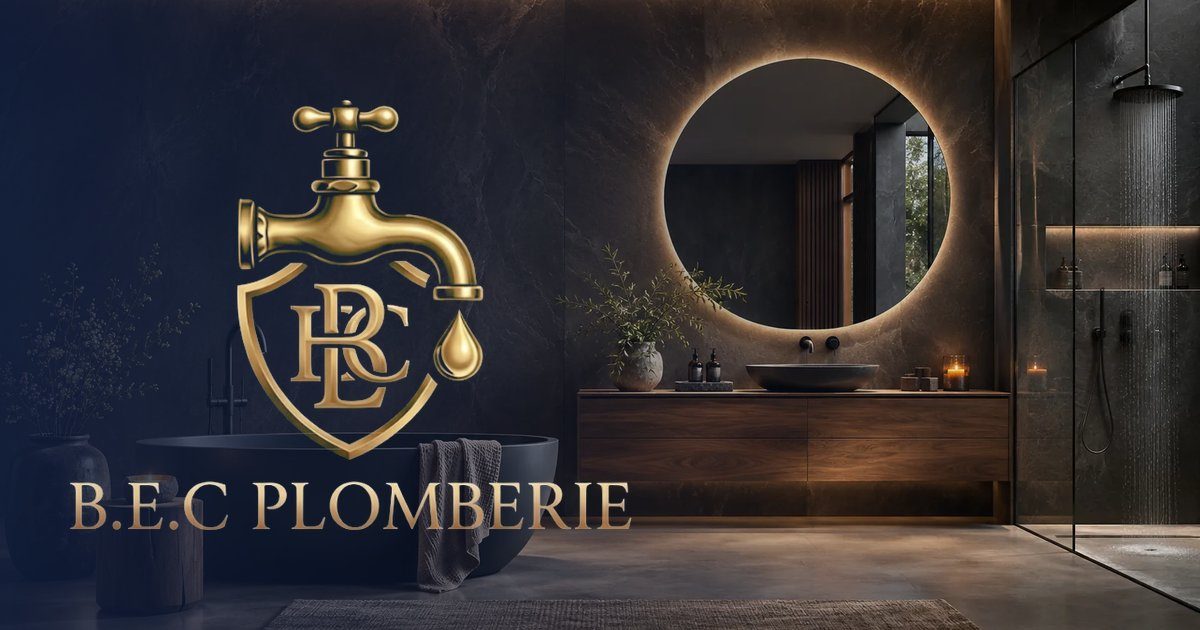
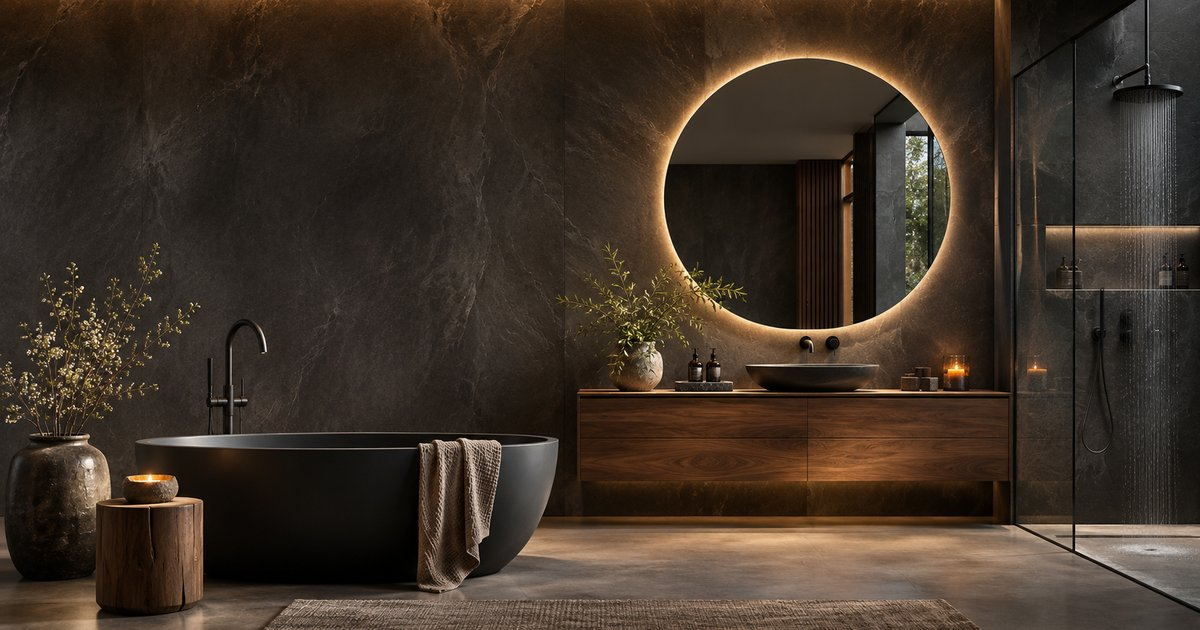
Image de partage : photo du hero seule
Claude-Session: https://claude.ai/code/session_01Gu47y4bVu5wzDqTyW9pXca

diff --git a/en/index.html b/en/index.html
@@ -16,7 +16,9 @@
 <meta property="og:title" content="B.E.C Plomberie – Plumber in Villeneuve-Loubet">
 <meta property="og:description" content="Plumbing, drain unblocking, water heaters and air conditioning in Villeneuve-Loubet. Rated 5.0 on Google (23 reviews).">
 <meta property="og:url" content="https://www.bec-plomberie.fr/en/">
-<meta property="og:image" content="https://www.bec-plomberie.fr/og-image.jpg">
+<meta property="og:image" content="https://www.bec-plomberie.fr/og-image.jpg?v=3">
+<meta property="og:image:width" content="1200">
+<meta property="og:image:height" content="630">
 <meta name="theme-color" content="#101d3b">
 <link rel="icon" href="/favicon.svg" type="image/svg+xml">
 <link rel="apple-touch-icon" href="/apple-touch-icon.png">
@@ -32,7 +34,7 @@
   "url": "https://www.bec-plomberie.fr/en/",
   "telephone": "+33749656885",
   "logo": "https://www.bec-plomberie.fr/logo/logo-bec-plomberie.png",
-  "image": "https://www.bec-plomberie.fr/og-image.jpg",
+  "image": "https://www.bec-plomberie.fr/og-image.jpg?v=3",
   "address": {
     "@type": "PostalAddress",
     "streetAddress": "83 Avenue de la Bermone",

diff --git a/index.html b/index.html
@@ -16,7 +16,9 @@
 <meta property="og:title" content="B.E.C Plomberie – Plombier à Villeneuve-Loubet">
 <meta property="og:description" content="Plomberie, débouchage, chauffe-eau et climatisation à Villeneuve-Loubet. Noté 5,0 sur Google (23 avis).">
 <meta property="og:url" content="https://www.bec-plomberie.fr/">
-<meta property="og:image" content="https://www.bec-plomberie.fr/og-image.jpg">
+<meta property="og:image" content="https://www.bec-plomberie.fr/og-image.jpg?v=3">
+<meta property="og:image:width" content="1200">
+<meta property="og:image:height" content="630">
 <meta name="theme-color" content="#101d3b">
 <link rel="icon" href="/favicon.svg" type="image/svg+xml">
 <link rel="apple-touch-icon" href="/apple-touch-icon.png">
@@ -32,7 +34,7 @@
   "url": "https://www.bec-plomberie.fr/",
   "telephone": "+33749656885",
   "logo": "https://www.bec-plomberie.fr/logo/logo-bec-plomberie.png",
-  "image": "https://www.bec-plomberie.fr/og-image.jpg",
+  "image": "https://www.bec-plomberie.fr/og-image.jpg?v=3",
   "address": {
     "@type": "PostalAddress",
     "streetAddress": "83 Avenue de la Bermone",

diff --git a/CLAUDE.md b/CLAUDE.md
@@ -38,7 +38,7 @@ Pas d'iframe Google Maps (cookies) : lien « Itinéraire » vers Google Maps à 
 
 ## Style
 Couleurs du logo client : bleu nuit (#101D3B) et doré (#C9A66B, doré foncé #7F5F26 pour le texte sur blanc), blanc pour respirer. **Aucun orange.** En-tête et bandeau contact bleu nuit, boutons d'appel dorés à texte bleu nuit. Titres Barlow Condensed (majuscules), texte Barlow, nom de marque en Cinzel. Mobile-first, barre d'appel fixe en bas sur mobile. Thème sombre automatique.
-Logo fourni par le client (robinet doré + écusson « BEC » sur fond bleu nuit) : `logo/logo-bec-plomberie.png` (original recadré), `logo-bec-plomberie-transparent.png`, `logo-bec-embleme.webp/png` (robinet + écusson détourés, utilisés dans l'en-tête avec « B.E.C / Plomberie » en texte), `logo-icone.png` + `apple-touch-icon.png` + `favicon.svg`. Image de partage `og-image.jpg` (1200×630).
+Logo fourni par le client (robinet doré + écusson « BEC » sur fond bleu nuit) : `logo/logo-bec-plomberie.png` (original recadré), `logo-bec-plomberie-transparent.png`, `logo-bec-embleme.webp/png` (robinet + écusson détourés, utilisés dans l'en-tête avec « B.E.C / Plomberie » en texte), `logo-icone.png` + `apple-touch-icon.png` + `favicon.svg`. Image de partage `og-image.jpg` (1200×630) : la photo du hero ordinateur seule, sans texte ni logo (demande du client le 26/11). Une seule image possible pour tous les appareils ; le centre reste lisible en recadrage carré (WhatsApp).
 Photos : 7 photos de la fiche Google dans `img/`. Vérifier avec le client qu'elles sont bien à lui.
 Hero plein écran (hauteur de l'écran sur ordinateur et téléphone), sans texte d'intro sous le titre : images fournies par le client le 26/11 (salle de bain pierre sombre, baignoire îlot noire, miroir rond rétroéclairé, douche vitrée) : version paysage pour ordinateur/tablette, version verticale pour téléphone ; originaux dans /mnt/project-files/bec-plomberie/ : img/hero-salle-de-bain.webp 1672×941 (≥700px), img/hero-salle-de-bain-mobile.webp 800×1422, voile bleu nuit. Nom écrit « B.E.C » (sans point final) partout. Boutons : « Devis gratuit » / « Free quote ».
 
